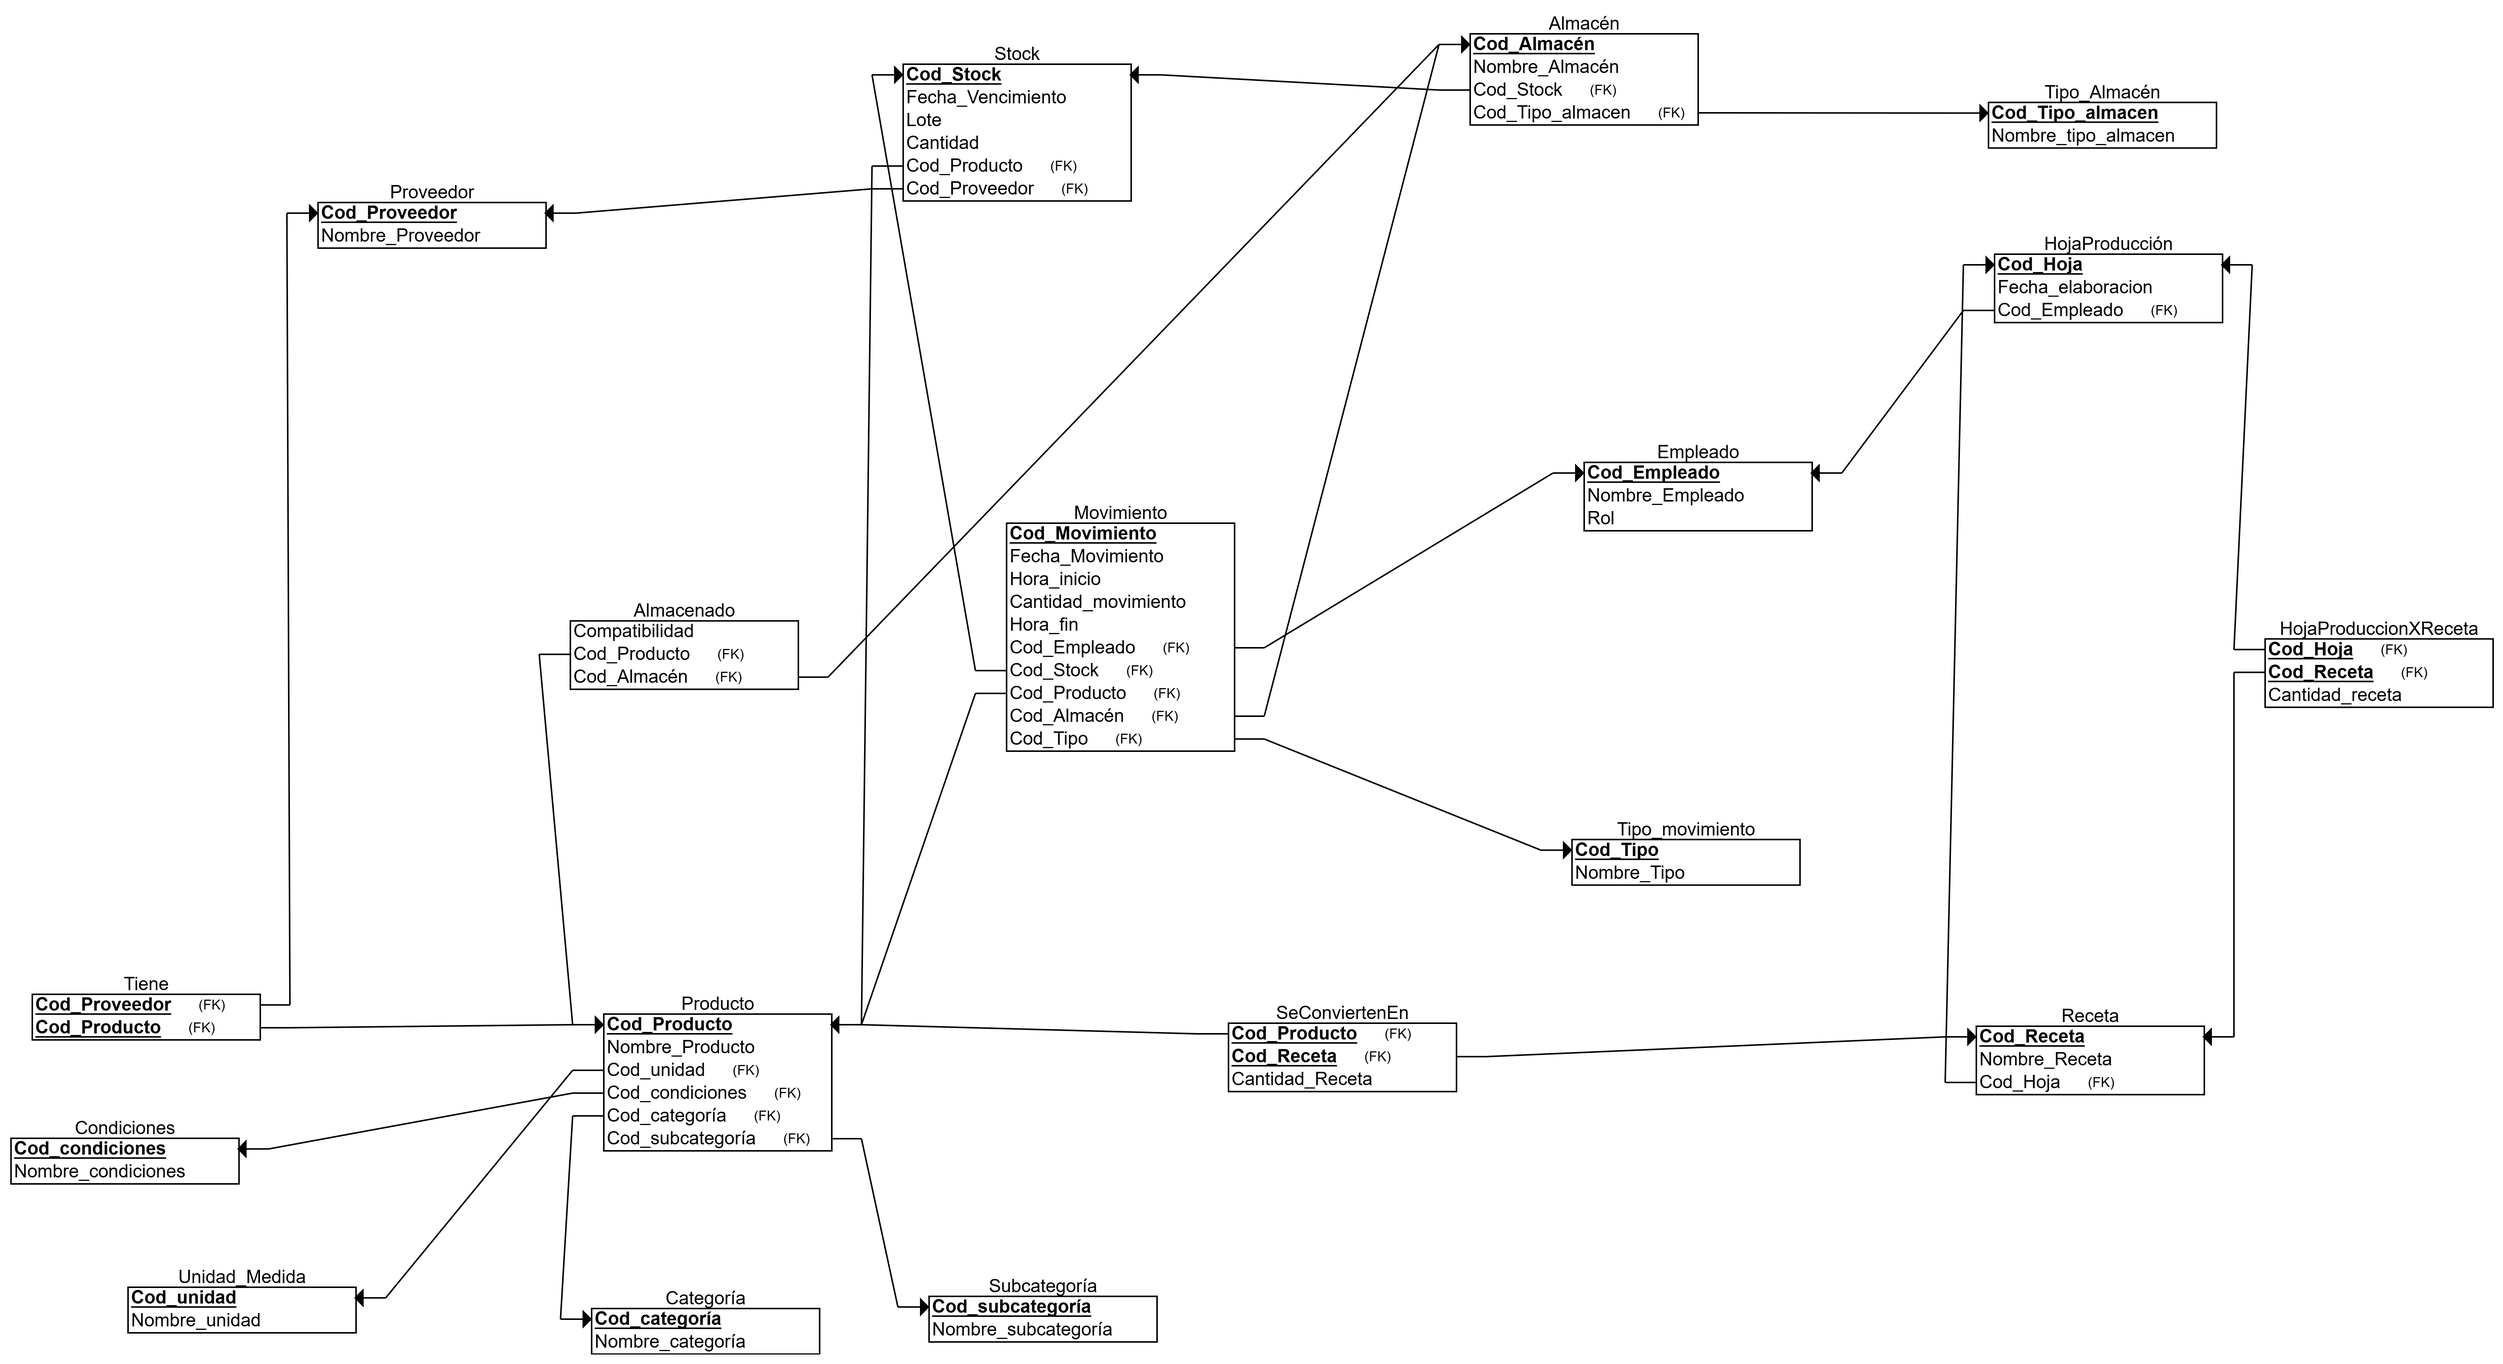
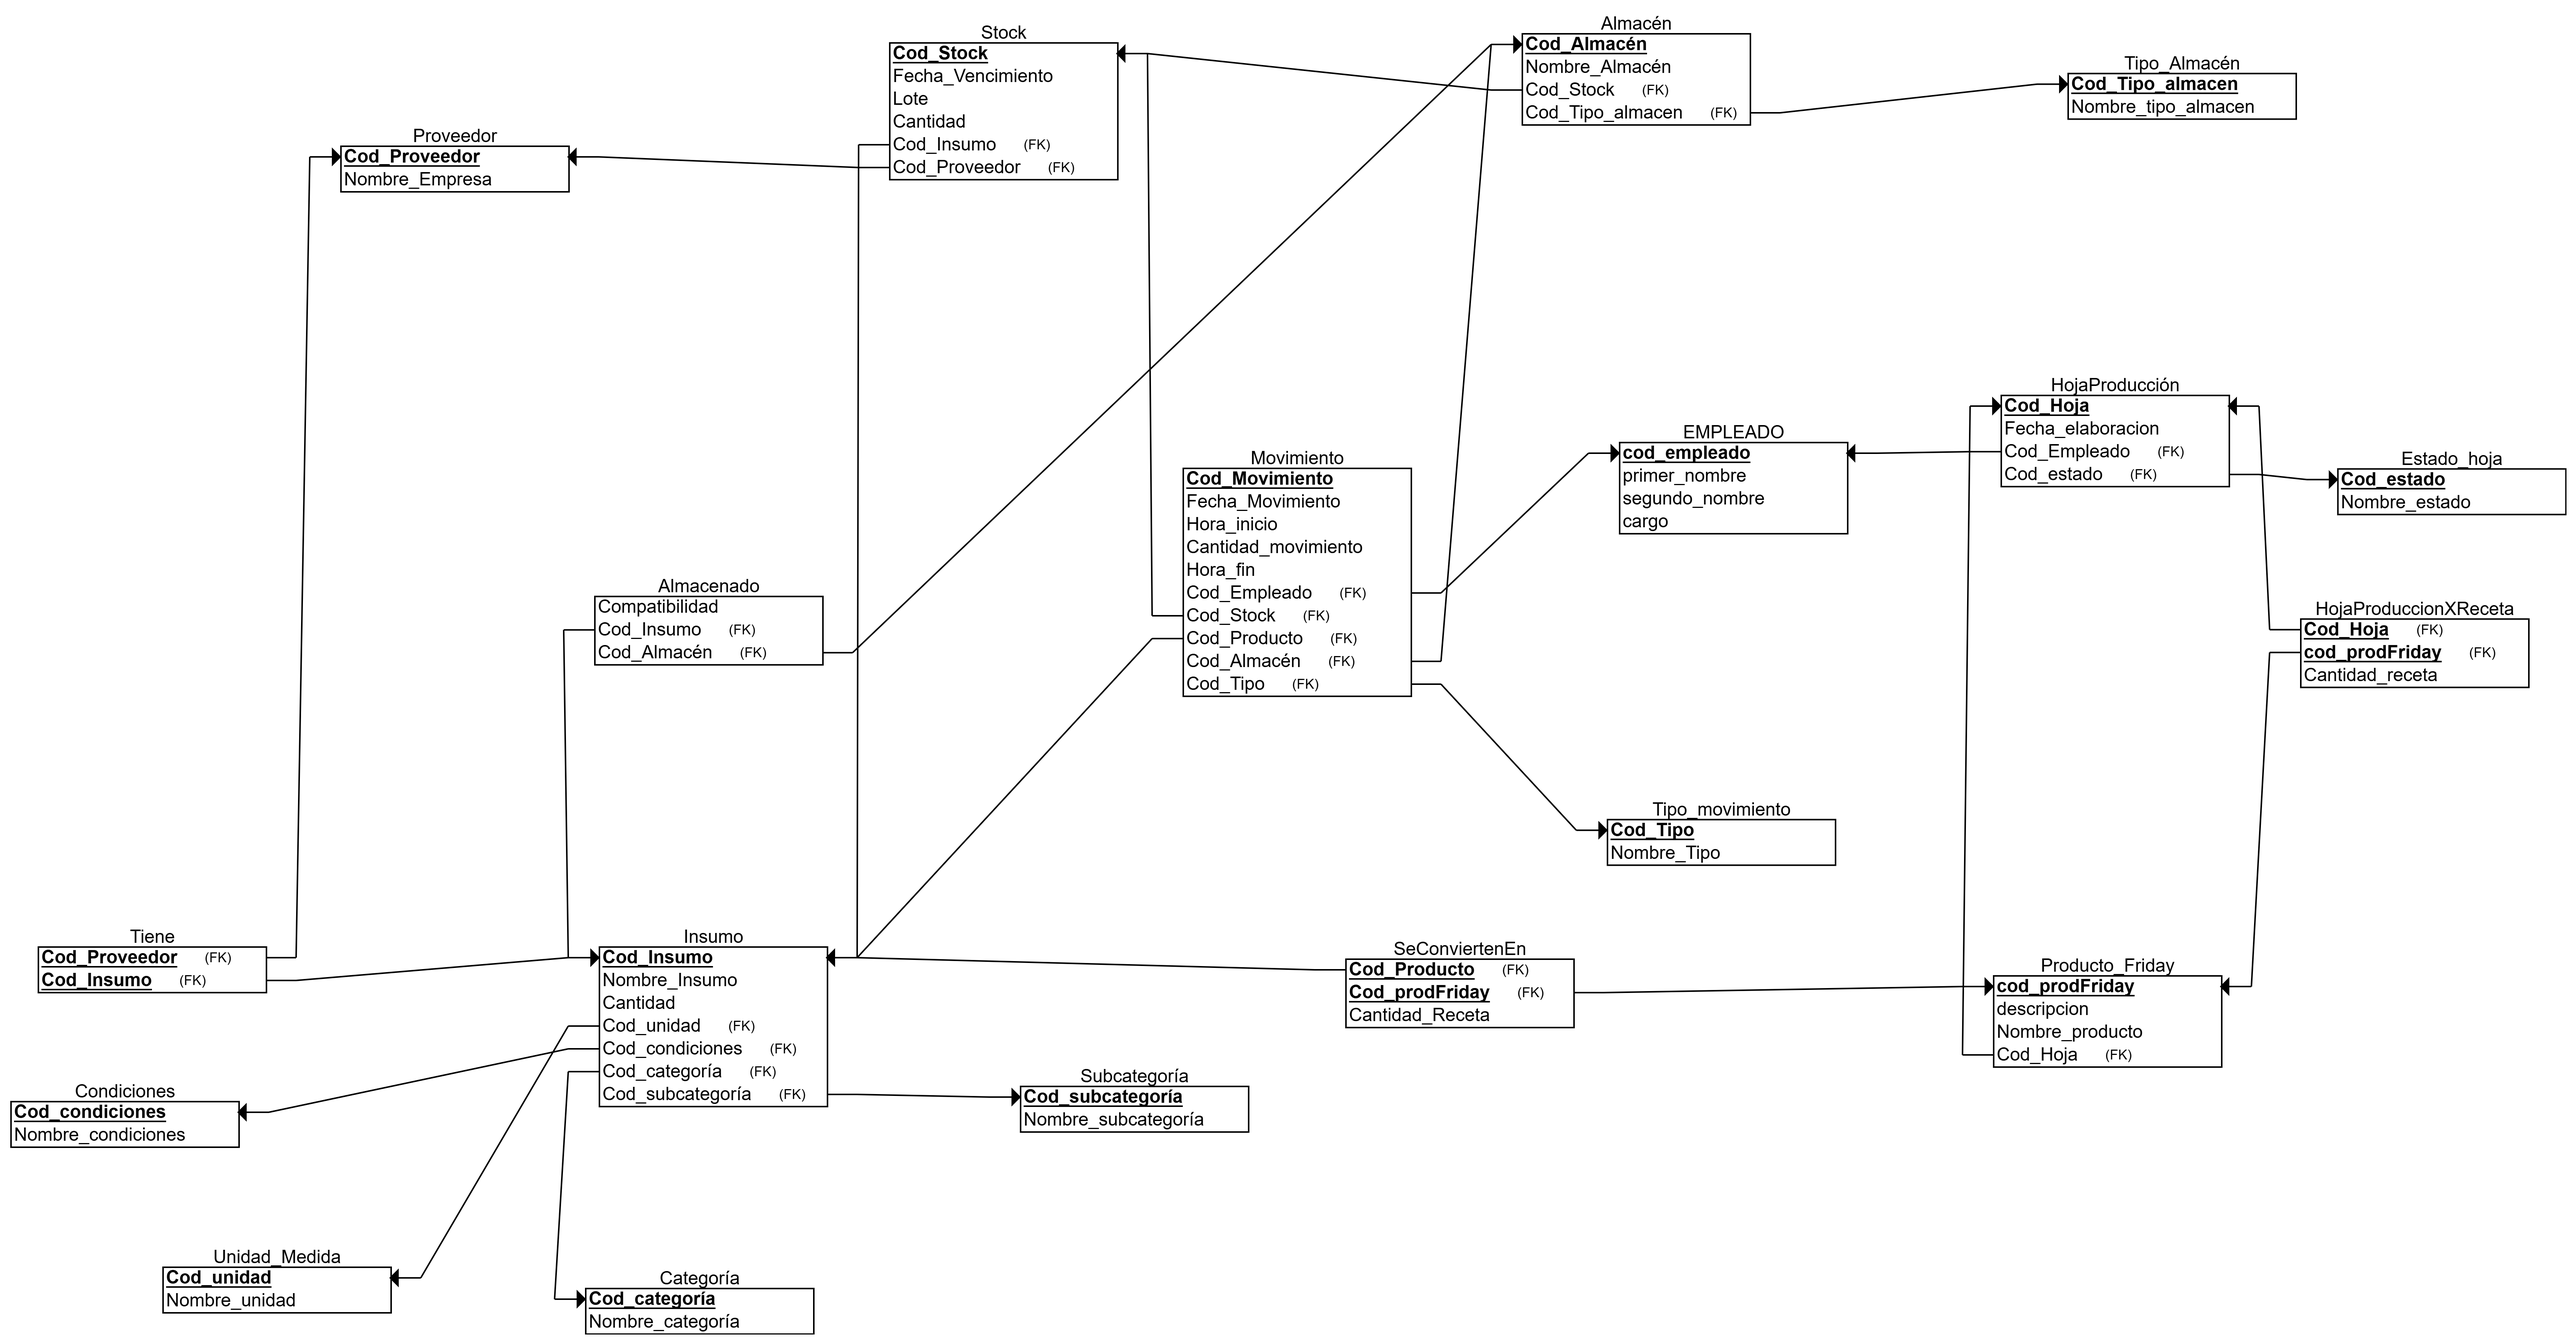
logicotodos

diff --git a/6/6.1/6.1.md b/6/6.1/6.1.md
@@ -1,5 +1,7 @@
 # 6.1. Esquema Relacional (Gráfico)
 
+![Esquema_relacional](../Esquema%20relacional/RelacionalInventario.png)
+
 ## 1) Módulo de Pedidos de Compra
 
 ![Esquema_relacional](../Esquema%20relacional/ML_PEDIDOCOMPRA.png)
@@ -18,3 +20,7 @@
 ## 5) Módulo de gestión de inventario
 
 ![Esquema_relacional](../Esquema%20relacional/RelacionalInventario.png)
+
+## Modelo lógico de los  módulos
+
+![Esquema_relacional](../Esquema%20relacional/LogicoTodos.png)
